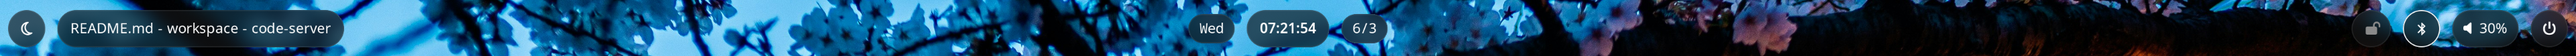
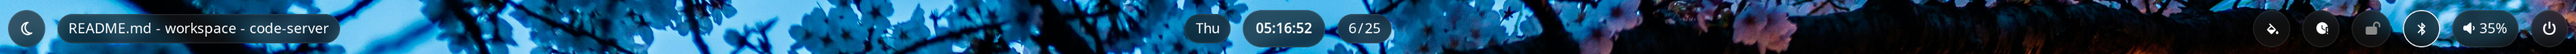
Archived the sidebars, they were cool but got in the way and I never used them. The code is still in the ARCHIVE folder if you want it

diff --git a/README.md b/README.md
@@ -117,19 +117,7 @@ Check out my [Keybind Cheatsheet](https://github.com/Jules3182/dotfiles/blob/mai
 **Night Mode:**
 ![Bottom Waybar Night](/Resources/Screenshots/BottomBarNight.png)
 
-*Contains my memory %, CPU %, GPU %, Network Up/Down, Workspaces, System Tray, and Notifications*
-
-#### Side Bars:
-
-Sidebars use [this Script](https://github.com/Jules3182/dotfiles/blob/main/hyprland/.config/hypr/scripts/sidebar.sh) to check the mouse location and automatically hide/show them!
-
-**Left Sidebar**
-(Quick app launcher)
-![Bottom Waybar Day](/Resources/Screenshots/SidebarLeft.png)
-
-**Right Sidebar**
-(Window layout switcher)
-![Bottom Waybar Day](/Resources/Screenshots/SidebarRight.png)
+*Contains my System Stats Button, Memory %, CPU %, GPU %, Network Up/Down, Workspaces, Media Player, System Tray, and Notifications*
 
 # Tools Used:
 
